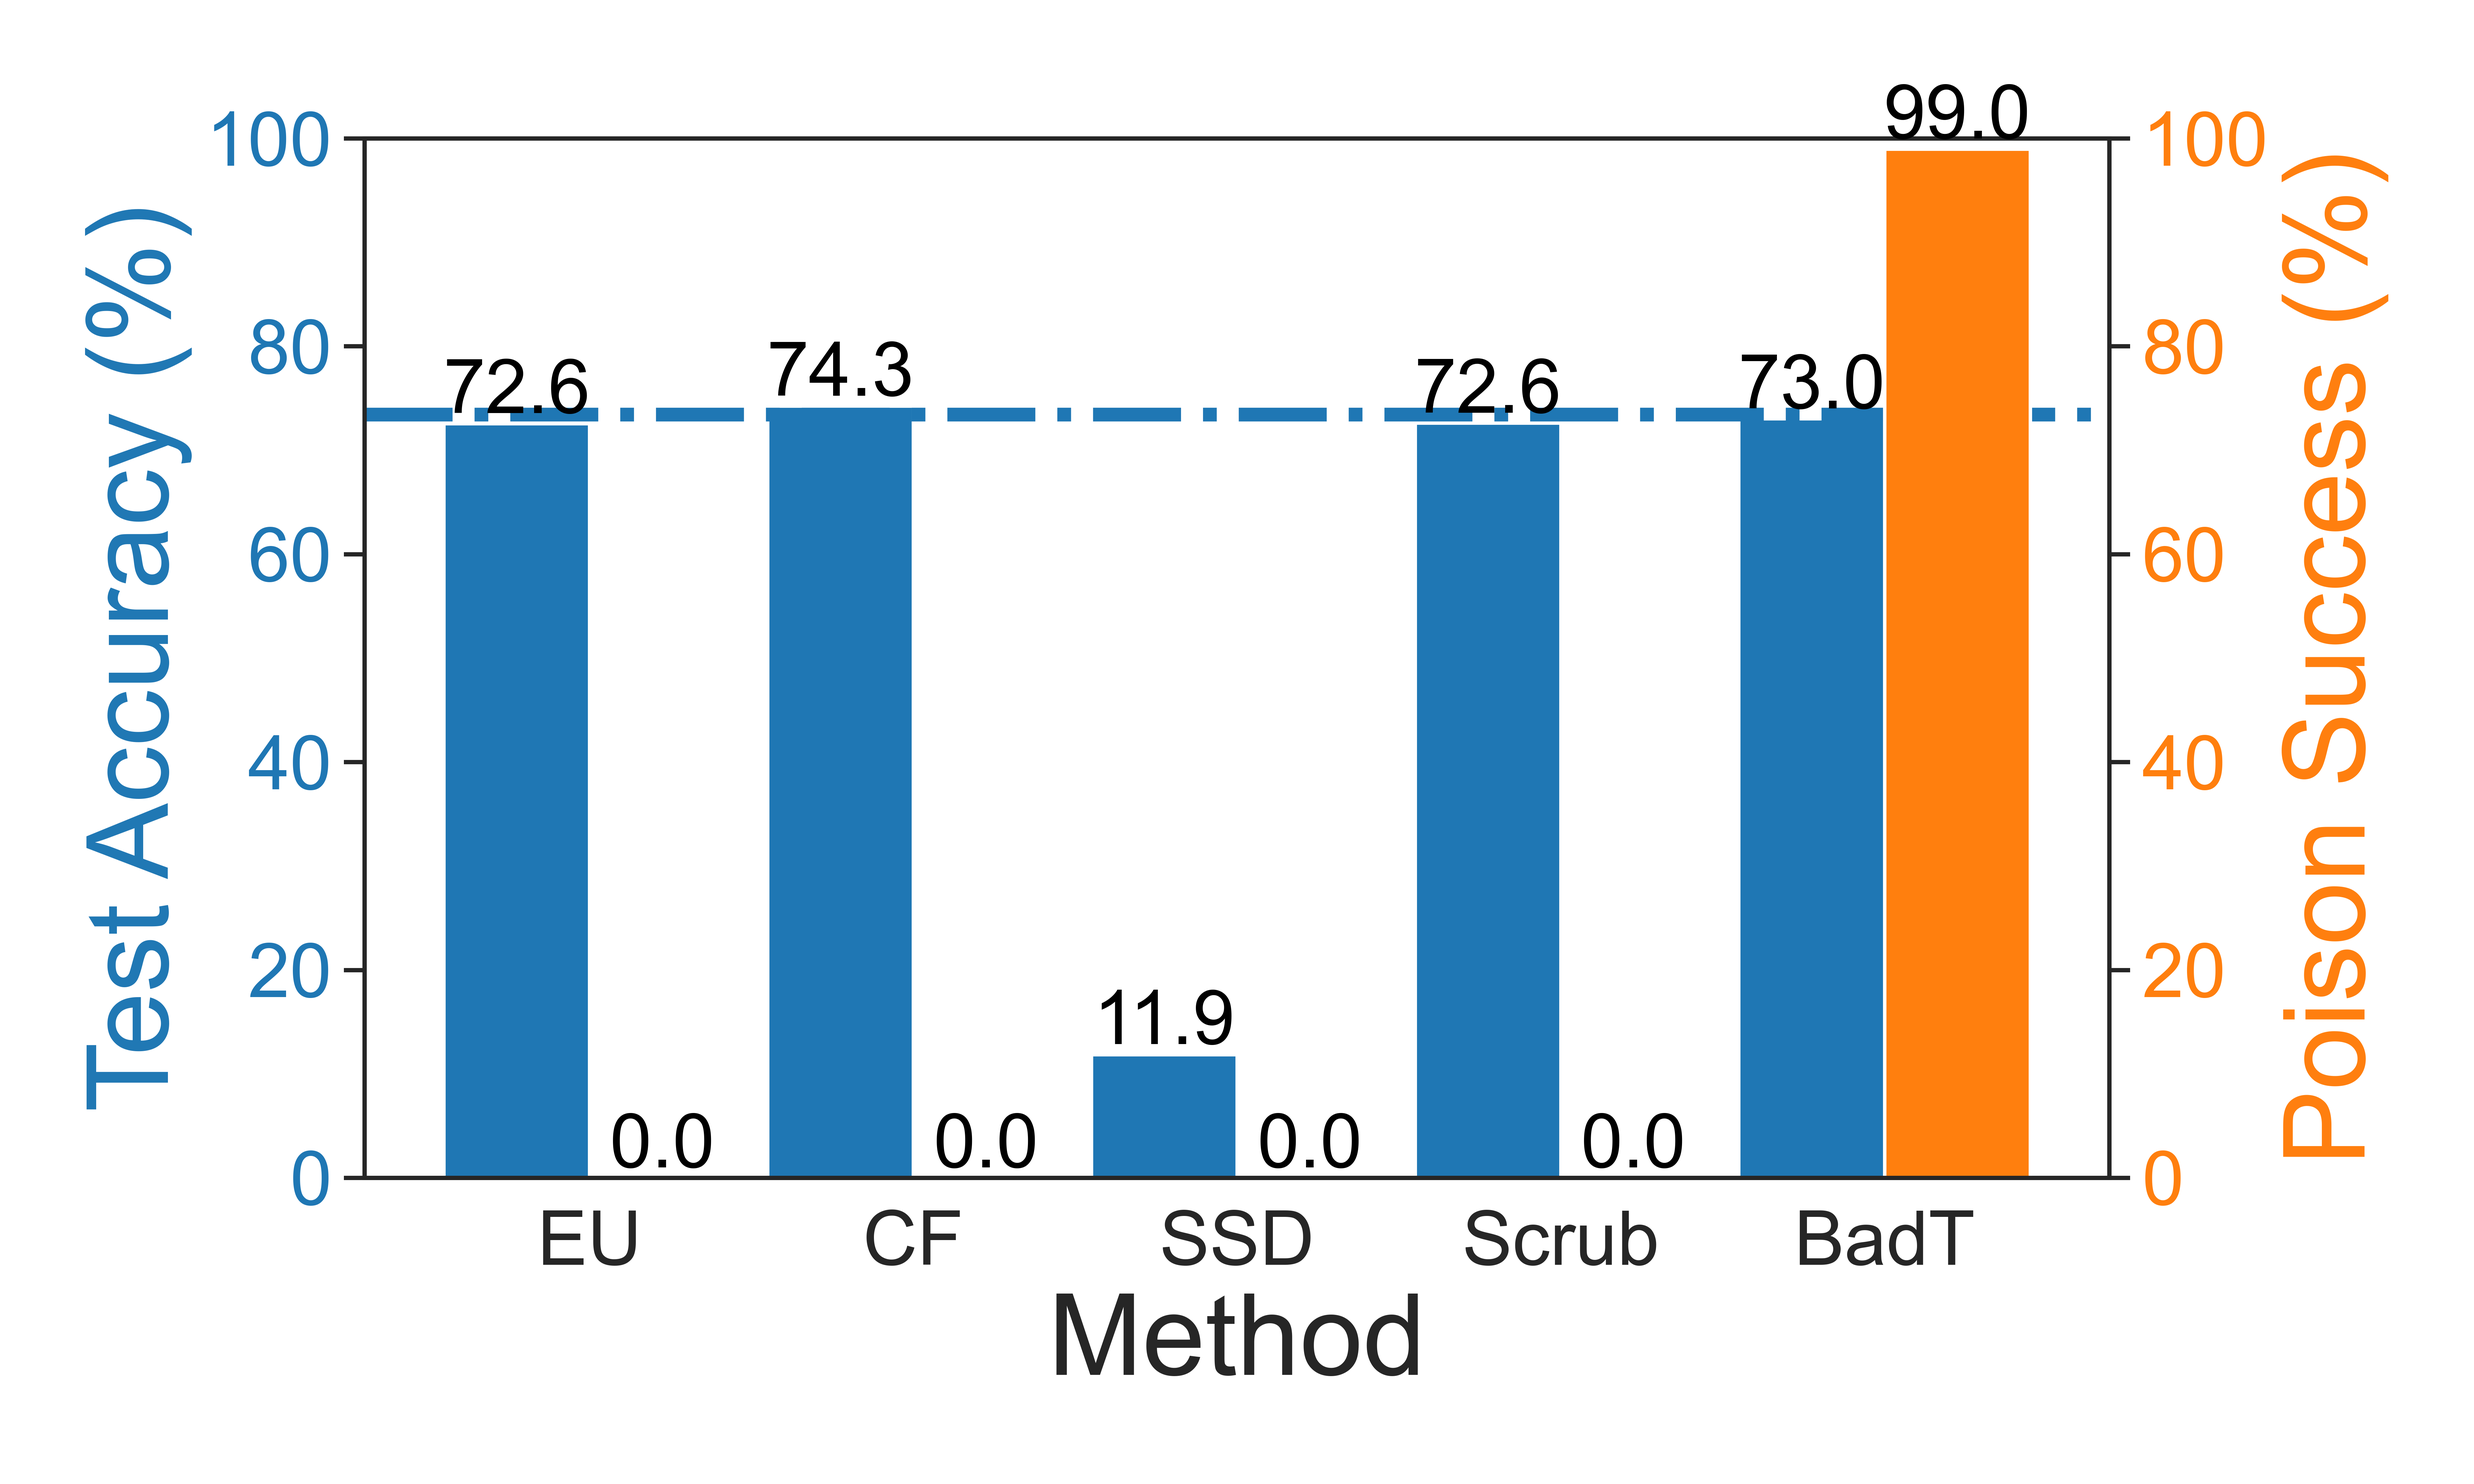
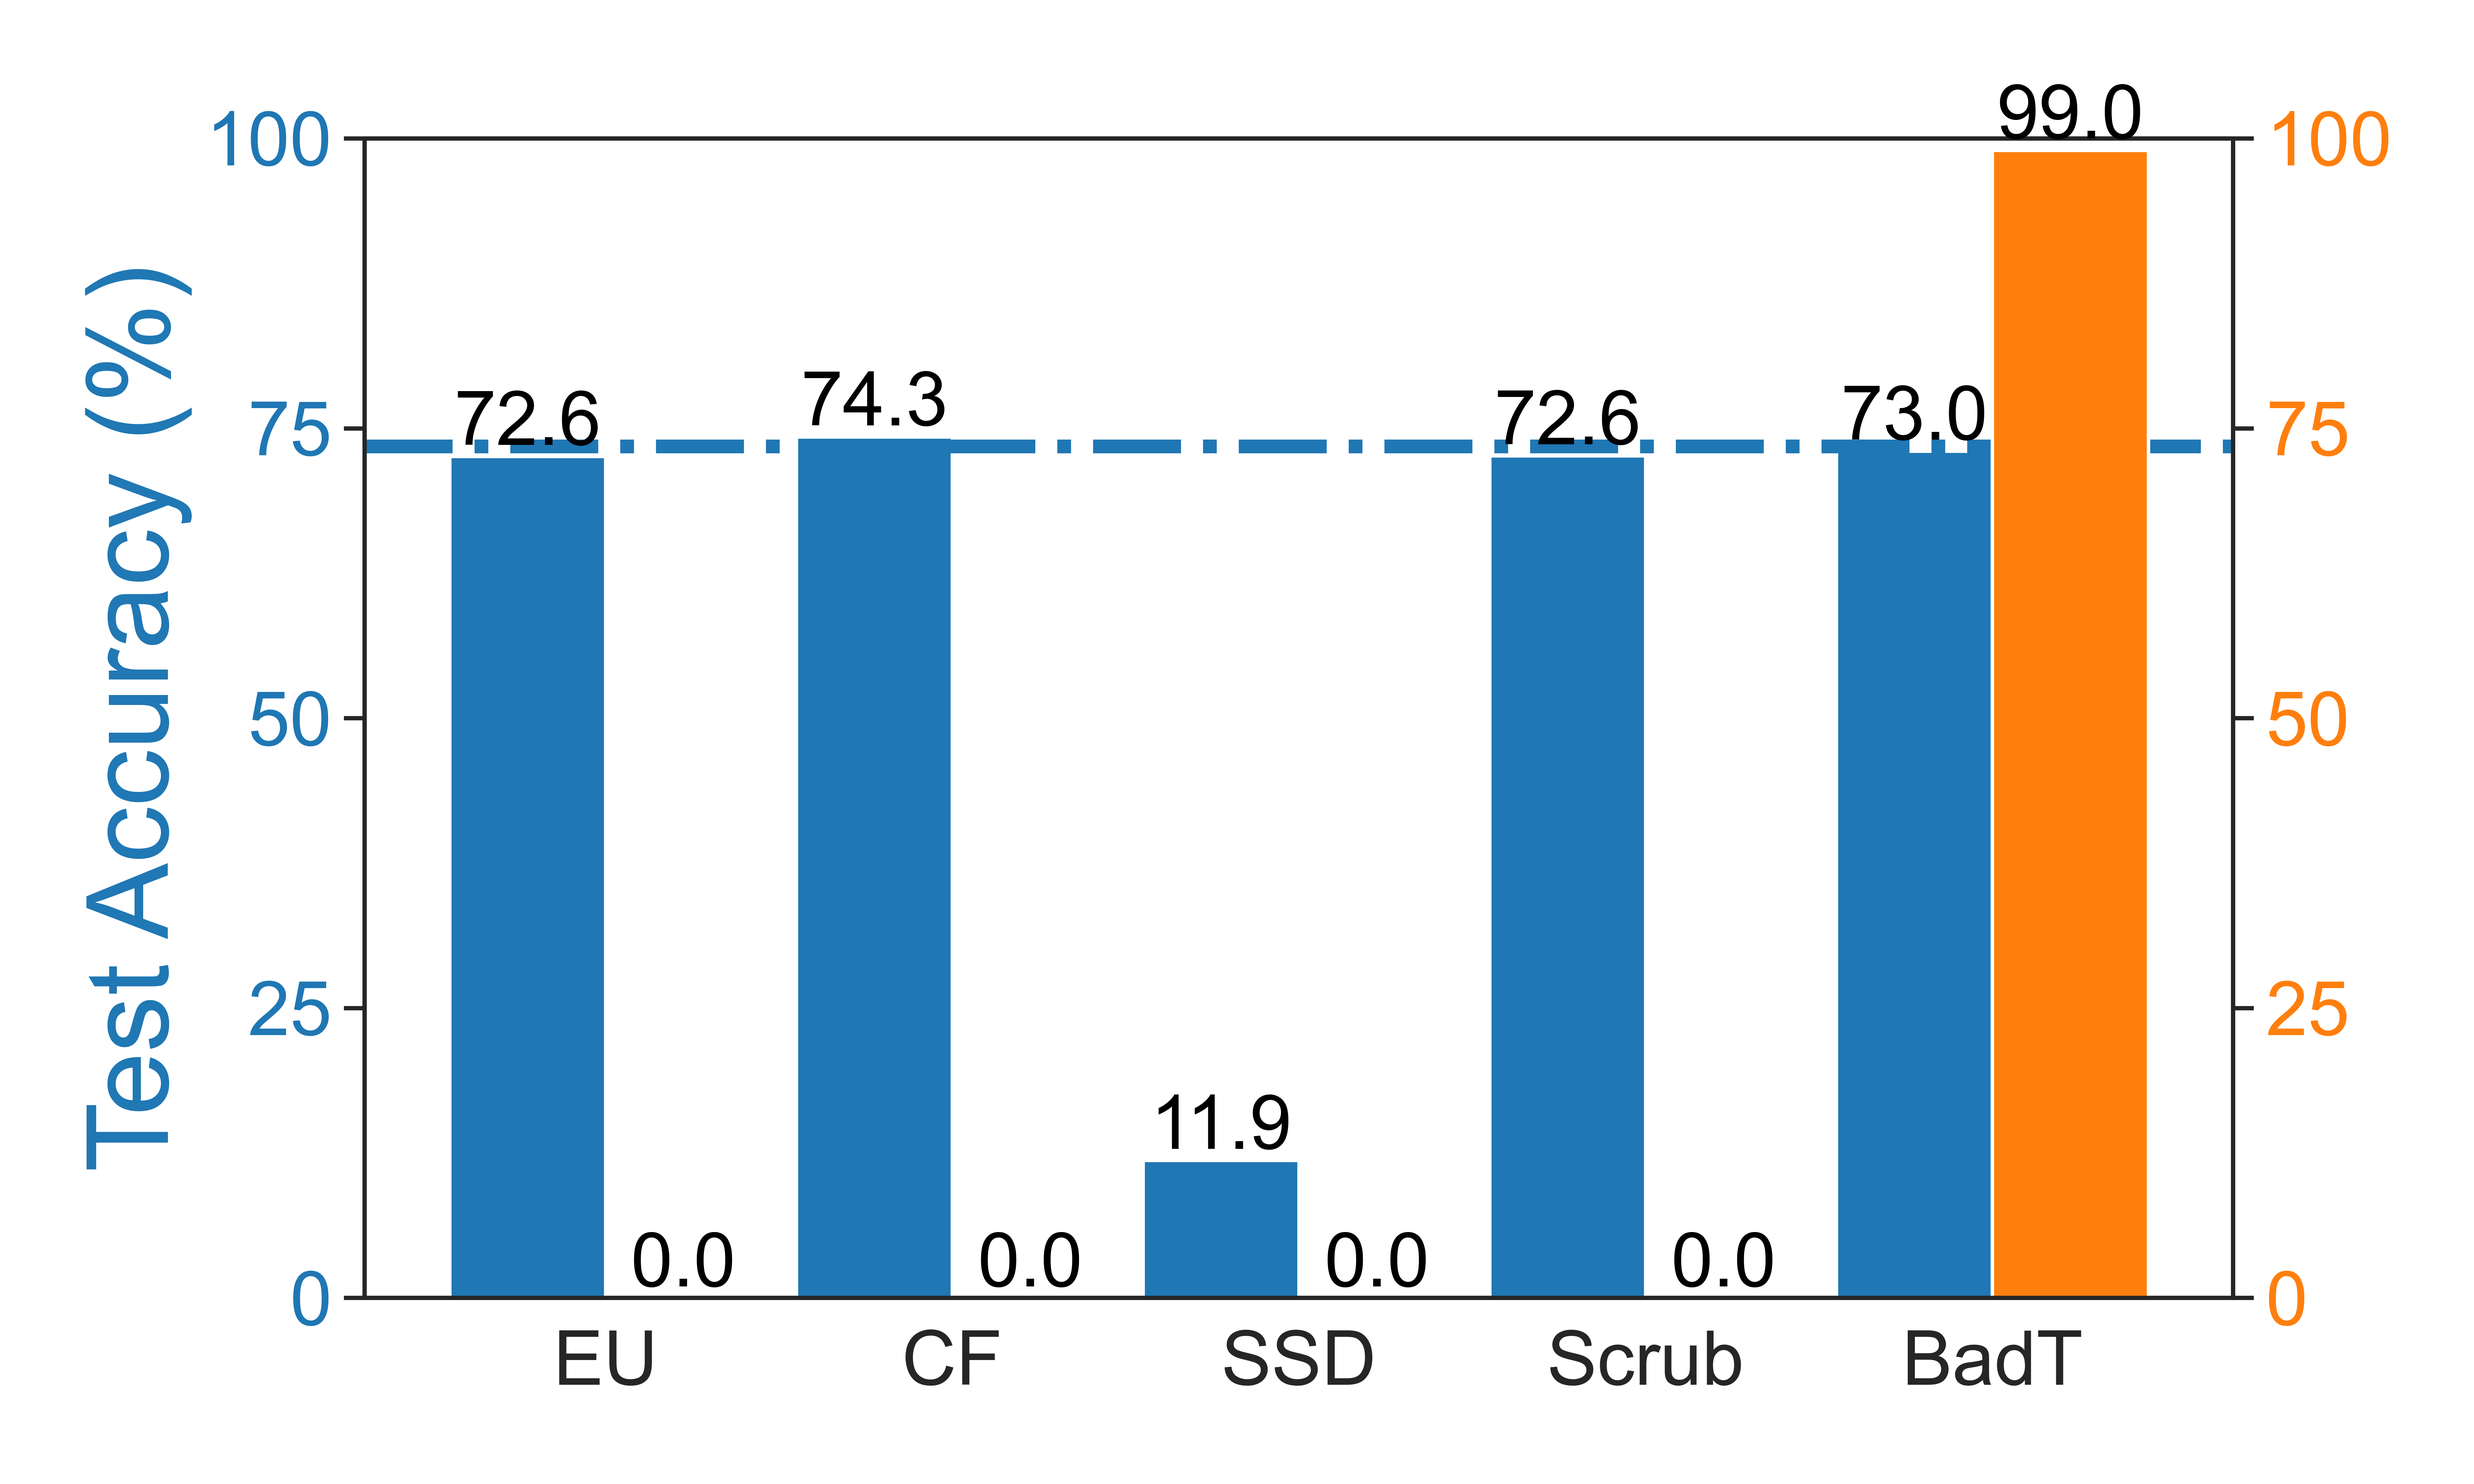
update unlearn plots (fig 3)

diff --git a/get_new_plots_newstyle.py b/get_new_plots_newstyle.py
@@ -9,6 +9,8 @@ bluecolor=sns.color_palette('tab10')[0]
 orangecolor=sns.color_palette('tab10')[1]
 plt.rcParams.update({'font.size': 22})  # Adjust '14' to your desired font size
 
+# ### --- badnet cifar10 ---
+# save_name = "cifar10_badnet"
 # # Data from the user
 # methods = ["EU", "CF", "SSD", "Scrub", "BadT"]
 # poison_success = [0.00, 0.00, 0.10, 0.00, 68.80]  # Poison Success (%) values
@@ -58,12 +60,15 @@ plt.rcParams.update({'font.size': 22})  # Adjust '14' to your desired font size
 # # Show the plot
 # plt.savefig("cifar10_badnet.png", dpi=800)
 
-
+### --- badnet cifar100 ---
+# save_name = "cifar100_badnet"
 # # Data from the user
 # methods = ["EU", "CF", "SSD", "Scrub", "BadT"]
 # poison_success = [0.00, 0.00, 0.00, 0.00, 99.00]  # Poison Success (%) values
 # test_accuracy = [72.58, 74.26, 11.87, 72.63, 73.04]  # Test Accuracy (%) values
 # avg_final_acc = 73.45
+
+
 # # Set up figure and axis for dual-axis bar plot
 # fig, ax1 = plt.subplots(figsize=(10, 6))
 
@@ -106,11 +111,15 @@ plt.rcParams.update({'font.size': 22})  # Adjust '14' to your desired font size
 # # Show the plot
 # plt.savefig("cifar100_badnet.png", dpi=800)
 
+### --- badnet imagenette ---
+# save_name = "imagenette_badnet"
 # # Data from the user
 # methods = ["EU", "CF", "SSD", "Scrub", "BadT"]
 # poison_success = [0.26, 0.52, 0.00, 44.30, 85.49]  # Poison Success (%) values
 # test_accuracy = [80.20, 84.71, 48.25, 33.86, 74.39]  # Test Accuracy (%) values
 # avg_final_acc = 81.14
+
+
 # # Set up figure and axis for dual-axis bar plot
 # fig, ax1 = plt.subplots(figsize=(10, 6))
 
@@ -153,15 +162,17 @@ plt.rcParams.update({'font.size': 22})  # Adjust '14' to your desired font size
 # # Show the plot
 # plt.savefig("imagenette_badnet.png", dpi=800)
 
+### --- cifar10_frequency ---
+# save_name = "cifar10_frequency"
 # # Data from the user
 # methods = ["EU", "CF", "SSD", "Scrub", "BadT"]
 # poison_success = [0.00, 0.00, 0.00, 0.00, 6.50]  # Poison Success (%) values
 # test_accuracy = [90.38, 92.45, 75.87, 75.61, 91.33]  # Test Accuracy (%) values
-# # Set up figure and axis for dual-axis bar plot
-# fig, ax1 = plt.subplots(figsize=(10, 6))
-
 # avg_final_acc = 92.15
 
+
+# Set up figure and axis for dual-axis bar plot
+# fig, ax1 = plt.subplots(figsize=(10, 6))
 # # Bar width
 # bar_width = 0.45
 # index = np.arange(len(methods))
@@ -201,15 +212,16 @@ plt.rcParams.update({'font.size': 22})  # Adjust '14' to your desired font size
 # # Show the plot
 # plt.savefig("cifar10_frequency.png", dpi=800)
 
-
+### --- cifar100_frequency ---
+# save_name = "cifar100_frequency"
 # # Data from the user
 # methods = ["EU", "CF", "SSD", "Scrub", "BadT"]
 # poison_success = [0.00, 0.00, 0.00, 0.00, 96.00]  # Poison Success (%) values
 # test_accuracy = [71.35, 73.96, 57.70, 69.97, 73.77]  # Test Accuracy (%) values
-# # Set up figure and axis for dual-axis bar plot
-# fig, ax1 = plt.subplots(figsize=(10, 6))
 # avg_final_acc = 73.45
 
+# # Set up figure and axis for dual-axis bar plot
+# fig, ax1 = plt.subplots(figsize=(10, 6))
 # # Bar width
 # bar_width = 0.45
 # index = np.arange(len(methods))
@@ -249,11 +261,14 @@ plt.rcParams.update({'font.size': 22})  # Adjust '14' to your desired font size
 # # Show the plot
 # plt.savefig("cifar100_frequency.png", dpi=800)
 
+### --- imagenette_frequency ---
+# save_name = "imagenette_frequency"
 # # Data from the user
 # methods = ["EU", "CF", "SSD", "Scrub", "BadT"]
 # poison_success = [0.00, 3.63, 0.52, 0.00, 46.63]  # Poison Success (%) values
 # test_accuracy = [72.74, 79.87, 68.41, 50.98, 73.76]  # Test Accuracy (%) values
 # avg_final_acc = 81.14
+
 # # Set up figure and axis for dual-axis bar plot
 # fig, ax1 = plt.subplots(figsize=(10, 6))
 
@@ -296,16 +311,16 @@ plt.rcParams.update({'font.size': 22})  # Adjust '14' to your desired font size
 # # Show the plot
 # plt.savefig("imagenette_frequency.png", dpi=800)
 
-
+### --- cifar10_wb ---
+# save_name = "cifar10_wb"
 # # Data from the user
 # methods = ["EU", "CF", "SSD", "Scrub", "BadT"]
 # poison_success = [0.00, 0.00, 0.00, 0.00, 0.00]  # Poison Success (%) values
 # test_accuracy = [91.21, 92.57, 81.27, 80.18, 90.76]  # Test Accuracy (%) values
-# # Set up figure and axis for dual-axis bar plot
-# fig, ax1 = plt.subplots(figsize=(10, 6))
-
 # avg_final_acc = 92.15
 
+# # Set up figure and axis for dual-axis bar plot
+# fig, ax1 = plt.subplots(figsize=(10, 6))
 # # Bar width
 # bar_width = 0.45
 # index = np.arange(len(methods))
@@ -345,15 +360,17 @@ plt.rcParams.update({'font.size': 22})  # Adjust '14' to your desired font size
 # # Show the plot
 # plt.savefig("cifar10_wb.png", dpi=800)
 
+### --- cifar100_wb ---
+# save_name = "cifar100_wb"
 # # Data from the user
 # methods = ["EU", "CF", "SSD", "Scrub", "BadT"]
 # poison_success =[0.00, 0.00, 0.00, 0.00, 100.00]  # Poison Success (%) values
 # test_accuracy = [72.25, 74.78, 72.56, 73.30, 75.19]  # Test Accuracy (%) values
-# # Set up figure and axis for dual-axis bar plot
-# fig, ax1 = plt.subplots(figsize=(10, 6))
-
 # avg_final_acc = 73.45
 
+
+# # Set up figure and axis for dual-axis bar plot
+# fig, ax1 = plt.subplots(figsize=(10, 6))
 # # Bar width
 # bar_width = 0.45
 # index = np.arange(len(methods))
@@ -393,11 +410,15 @@ plt.rcParams.update({'font.size': 22})  # Adjust '14' to your desired font size
 # # Show the plot
 # plt.savefig("cifar100_wb.png", dpi=800)
 
+## --- (wb imagenette) ---
+save_name = "imagenette_wb.png"
 # Data from the user
 methods = ["EU", "CF", "SSD", "Scrub", "BadT"]
 poison_success = [0.00, 0.00, 0.00, 0.00, 100.00]  # Poison Success (%) values
 test_accuracy = [71.82, 78.68, 74.65, 40.36, 72.41]  # Test Accuracy (%) values
 avg_final_acc = 81.14
+
+""" badnet
 # Set up figure and axis for dual-axis bar plot
 fig, ax1 = plt.subplots(figsize=(10, 6))
 
@@ -407,8 +428,10 @@ index = np.arange(len(methods))
 
 # Plot Test Accuracy on the primary y-axis
 bars1 = ax1.bar(index, test_accuracy, bar_width, color=bluecolor, label='Test Accuracy (%)')
-ax1.set_xlabel("Method", fontsize=33)
+# bars1 = ax1.bar(index, test_accuracy, bar_width, color=bluecolor)
+# ax1.set_xlabel("Method", fontsize=33)
 ax1.set_ylabel("Test Accuracy (%)", color=bluecolor, fontsize=33)
+ax1.locator_params(axis='y', tight=True, nbins=4)
 ax1.tick_params(axis='y', labelcolor=bluecolor, labelsize=22)
 ax1.tick_params(axis='x', labelsize=22)
 ax1.set_ylim(0, 100)  # Set limit to 100 for better comparison
@@ -420,8 +443,10 @@ for bar in bars1:
 
 # Secondary y-axis for Poison Success
 ax2 = ax1.twinx()
-bars2 = ax2.bar(index + bar_width, poison_success, bar_width, color=orangecolor, label='Poison Success (%)')
-ax2.set_ylabel("Poison Success (%)", color=orangecolor, fontsize=33)
+# bars2 = ax2.bar(index + bar_width, poison_success, bar_width, color=orangecolor, label='Poison Success (%)')
+bars2 = ax2.bar(index + bar_width, poison_success, bar_width, color=orangecolor)
+# ax2.set_ylabel("Poison Success (%)", color=orangecolor, fontsize=33)
+ax2.locator_params(axis='y', tight=True, nbins=4)
 ax2.tick_params(axis='y', labelcolor=orangecolor, labelsize=22)
 ax2.set_ylim(0, 100)  # Set limit to 100 for better comparison
 
@@ -438,4 +463,98 @@ plt.xticks(index + bar_width / 2, methods)
 plt.tight_layout()
 
 # Show the plot
-plt.savefig("imagenette_wb.png", dpi=800)
+plt.savefig(save_name, dpi=800)
+"""
+""" frequency
+# Set up figure and axis for dual-axis bar plot
+fig, ax1 = plt.subplots(figsize=(10, 6))
+
+# Bar width
+bar_width = 0.45
+index = np.arange(len(methods))
+
+# Plot Test Accuracy on the primary y-axis
+# bars1 = ax1.bar(index, test_accuracy, bar_width, color=bluecolor, label='Test Accuracy (%)')
+bars1 = ax1.bar(index, test_accuracy, bar_width, color=bluecolor)
+# ax1.set_xlabel("Method", fontsize=33)
+# ax1.set_ylabel("Test Accuracy (%)", color=bluecolor, fontsize=33)
+ax1.locator_params(axis='y', tight=True, nbins=4)
+ax1.tick_params(axis='y', labelcolor=bluecolor, labelsize=22)
+ax1.tick_params(axis='x', labelsize=22)
+ax1.set_ylim(0, 100)  # Set limit to 100 for better comparison
+
+# Add labels on top of Test Accuracy bars
+for bar in bars1:
+    yval = bar.get_height()
+    ax1.text(bar.get_x() + bar.get_width()/2, yval + 1, f"{yval:.1f}", ha='center', color='black', fontsize=22)
+
+# Secondary y-axis for Poison Success
+ax2 = ax1.twinx()
+# bars2 = ax2.bar(index + bar_width, poison_success, bar_width, color=orangecolor, label='Poison Success (%)')
+bars2 = ax2.bar(index + bar_width, poison_success, bar_width, color=orangecolor)
+# ax2.set_ylabel("Poison Success (%)", color=orangecolor, fontsize=33)
+ax2.locator_params(axis='y', tight=True, nbins=4)
+ax2.tick_params(axis='y', labelcolor=orangecolor, labelsize=22)
+ax2.set_ylim(0, 100)  # Set limit to 100 for better comparison
+
+ax1.axhline(avg_final_acc, color=bluecolor, linestyle='-.', label='Accuracy (Retraining)', linewidth=4)
+
+# Add labels on top of Poison Success bars
+for bar in bars2:
+    yval = bar.get_height()
+    ax2.text(bar.get_x() + bar.get_width()/2, yval + 1, f"{yval:.1f}", ha='center', color='black', fontsize=22)
+
+# Set x-axis labels and title
+plt.xticks(index + bar_width / 2, methods)
+#plt.title("Test Accuracy and Poison Success for Different Methods")
+plt.tight_layout()
+
+# Show the plot
+plt.savefig(save_name, dpi=800)
+"""
+
+# Set up figure and axis for dual-axis bar plot
+fig, ax1 = plt.subplots(figsize=(10, 6))
+
+# Bar width
+bar_width = 0.45
+index = np.arange(len(methods))
+
+# Plot Test Accuracy on the primary y-axis
+# bars1 = ax1.bar(index, test_accuracy, bar_width, color=bluecolor, label='Test Accuracy (%)')
+bars1 = ax1.bar(index, test_accuracy, bar_width, color=bluecolor)
+# ax1.set_xlabel("Method", fontsize=33)
+# ax1.set_ylabel("Test Accuracy (%)", color=bluecolor, fontsize=33)
+ax1.locator_params(axis='y', tight=True, nbins=4)
+ax1.tick_params(axis='y', labelcolor=bluecolor, labelsize=22)
+ax1.tick_params(axis='x', labelsize=22)
+ax1.set_ylim(0, 100)  # Set limit to 100 for better comparison
+
+# Add labels on top of Test Accuracy bars
+for bar in bars1:
+    yval = bar.get_height()
+    ax1.text(bar.get_x() + bar.get_width()/2, yval + 1, f"{yval:.1f}", ha='center', color='black', fontsize=22)
+
+# Secondary y-axis for Poison Success
+ax2 = ax1.twinx()
+bars2 = ax2.bar(index + bar_width, poison_success, bar_width, color=orangecolor, label='Poison Success (%)')
+# bars2 = ax2.bar(index + bar_width, poison_success, bar_width, color=orangecolor)
+ax2.set_ylabel("Poison Success (%)", color=orangecolor, fontsize=33)
+ax2.locator_params(axis='y', tight=True, nbins=4)
+ax2.tick_params(axis='y', labelcolor=orangecolor, labelsize=22)
+ax2.set_ylim(0, 100)  # Set limit to 100 for better comparison
+
+ax1.axhline(avg_final_acc, color=bluecolor, linestyle='-.', label='Accuracy (Retraining)', linewidth=4)
+
+# Add labels on top of Poison Success bars
+for bar in bars2:
+    yval = bar.get_height()
+    ax2.text(bar.get_x() + bar.get_width()/2, yval + 1, f"{yval:.1f}", ha='center', color='black', fontsize=22)
+
+# Set x-axis labels and title
+plt.xticks(index + bar_width / 2, methods)
+#plt.title("Test Accuracy and Poison Success for Different Methods")
+plt.tight_layout()
+
+# Show the plot
+plt.savefig(save_name, dpi=800)
